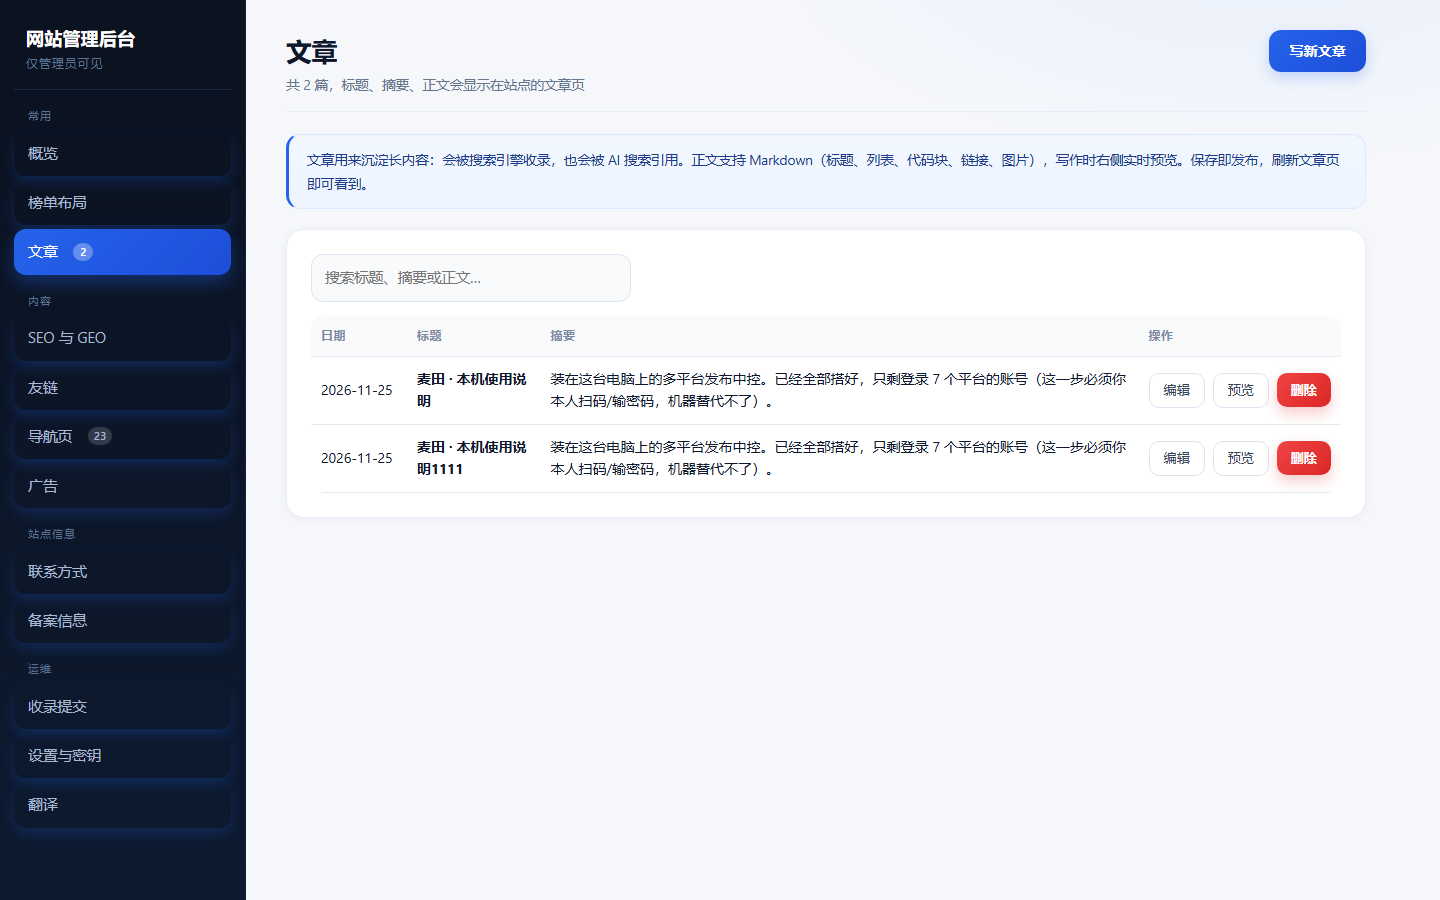
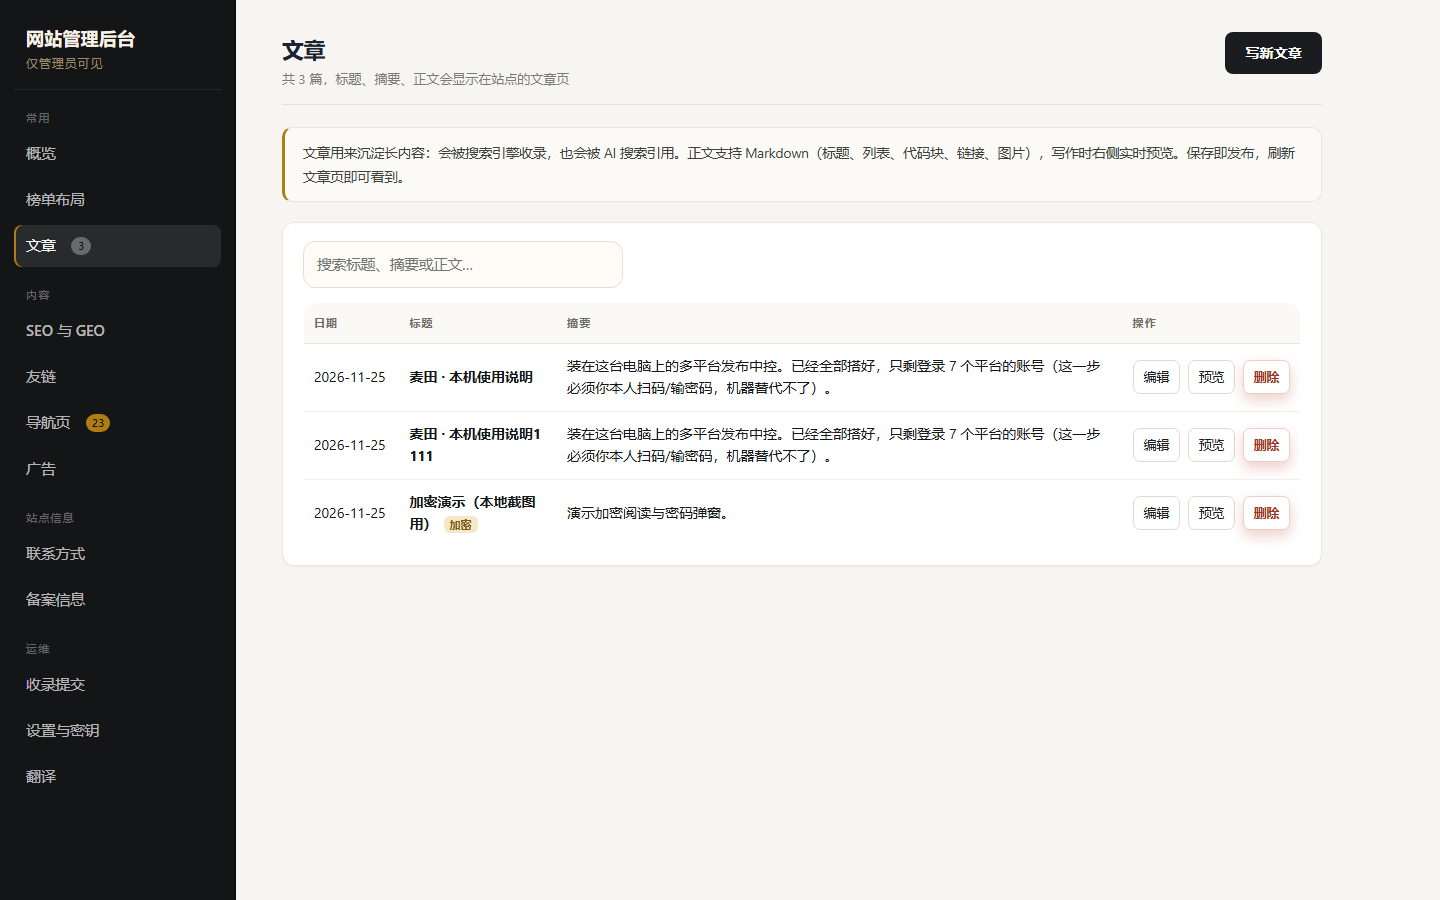
feat(articles): 密码改弹窗解锁 + 阅读态不再把侧栏顶到上面；后台换中性纸感配色

diff --git a/articles.html b/articles.html
@@ -120,6 +120,21 @@ li.md-task{list-style:none;margin-left:-18px}
 .lockbox input{width:100%;margin:10px 0;background:var(--bg);border:1px solid var(--border);border-radius:10px;padding:11px 13px;font:inherit;color:var(--text)}
 .lockbox input:focus{outline:0;border-color:var(--accent);box-shadow:0 0 0 3px rgba(176,125,16,.14)}
 .lockerr{color:var(--danger);font-size:12.5px;min-height:18px}
+.locknote{max-width:440px;margin:34px auto;text-align:center}
+.locknote p{color:var(--muted);font-size:13.5px;margin-bottom:14px}
+/* 阅读态：主列只留正文，侧栏仍在右边 */
+.blistwrap.is-reading>.btools,.blistwrap.is-reading>.chips,.blistwrap.is-reading>#cards{display:none}
+.blistwrap.is-reading>.reader{margin-top:0}
+/* 密码弹窗 */
+.pwd-modal{border:0;border-radius:16px;padding:0;width:min(420px,calc(100% - 28px));background:var(--card);color:var(--text);box-shadow:0 30px 80px rgba(0,0,0,.32)}
+.pwd-modal::backdrop{background:rgba(20,16,10,.45);backdrop-filter:blur(2px)}
+.pm-card{padding:22px 22px 18px}
+.pm-card h3{margin:0 0 6px;font-size:17px;letter-spacing:-.2px}
+.pm-sub{margin:0 0 14px;color:var(--muted);font-size:13px}
+.pm-card input{width:100%;background:var(--bg);border:1px solid var(--border);border-radius:10px;padding:11px 13px;font:inherit;color:var(--text)}
+.pm-card input:focus{outline:0;border-color:var(--accent);box-shadow:0 0 0 3px rgba(176,125,16,.14)}
+.pm-err{color:var(--danger);font-size:12.5px;min-height:18px;margin:6px 0 2px}
+.pm-actions{display:flex;justify-content:flex-end;gap:8px}
 /* 弹窗（广告） */
 .ad-modal{border:0;border-radius:16px;padding:0;width:min(680px,calc(100% - 28px));box-shadow:0 30px 80px rgba(0,0,0,.35);background:var(--card);color:var(--text)}
 .ad-modal::backdrop{background:rgba(12,16,24,.55)}
@@ -182,6 +197,15 @@ footer{margin-top:36px;padding-top:16px;border-top:1px solid var(--border);color
       <div class="cards" id="cards">
         <div class="empty">正在加载文章…</div>
       </div>
+
+  <article class="reader" id="reader" hidden>
+    <button class="rback" id="rback" type="button">← 返回文章列表</button>
+    <h1 id="rTitle"></h1>
+    <div class="rmeta" id="rMeta"></div>
+    <div class="abody" id="rBody"></div>
+    <div class="adslot" id="adAPAfter" hidden><div class="ad-inner"></div></div>
+    <div class="rmeta" id="rNav" style="border:0;margin:22px 0 0;padding-top:14px;border-top:1px solid var(--border)"></div>
+  </article>
     </section>
 
     <aside class="bside" id="side">
@@ -210,20 +234,24 @@ footer{margin-top:36px;padding-top:16px;border-top:1px solid var(--border);color
     </aside>
   </div>
 
-  <article class="reader" id="reader" hidden>
-    <button class="rback" id="rback" type="button">← 返回文章列表</button>
-    <h1 id="rTitle"></h1>
-    <div class="rmeta" id="rMeta"></div>
-    <div class="abody" id="rBody"></div>
-    <div class="adslot" id="adAPAfter" hidden><div class="ad-inner"></div></div>
-    <div class="rmeta" id="rNav" style="border:0;margin:22px 0 0;padding-top:14px;border-top:1px solid var(--border)"></div>
-  </article>
-
   <footer>
     <span>数据与文章由站长维护 · 数据来源 GitHub 公开 API</span>
     <span><a href="/">返回首页</a></span>
   </footer>
 </div>
+
+<dialog class="pwd-modal" id="pwDlg">
+  <form class="pm-card" method="dialog" onsubmit="return false">
+    <h3>这篇文章需要密码</h3>
+    <p class="pm-sub">输入站长设置的访问密码才能阅读正文。</p>
+    <input type="password" id="pwIn" autocomplete="current-password" placeholder="访问密码">
+    <div class="pm-err" id="pwErr"></div>
+    <div class="pm-actions">
+      <button class="btn" type="button" id="pwCancel">取消</button>
+      <button class="btn primary" type="button" id="pwGo">解锁</button>
+    </div>
+  </form>
+</dialog>
 
 <dialog class="ad-modal" id="adModal">
   <div class="am-head"><span>广告</span><button id="adModalX" type="button" aria-label="关闭">×</button></div>
@@ -414,9 +442,8 @@ footer{margin-top:36px;padding-top:16px;border-top:1px solid var(--border);color
     var a = findArt(id);
     if (!a) { closeReader(); return; }
     state.open = a;
-    $('listWrap').hidden = true;
+    $('listWrap').classList.add('is-reading');
     $('hero').hidden = true;
-    $('blog').hidden = true;
     $('adAPTop').hidden = true;
     $('reader').hidden = false;
     $('rTitle').textContent = a.title || '(无标题)';
@@ -432,12 +459,10 @@ footer{margin-top:36px;padding-top:16px;border-top:1px solid var(--border);color
       (prev ? '<a href="#' + encodeURIComponent(prev.id) + '" style="margin-left:auto">' + esc(prev.title || '') + ' →</a>' : '<span></span>');
     var body = $('rBody');
     if (a.locked) {
-      body.innerHTML = '<div class="lockbox"><p>这篇文章加了密码，输入后可以看正文。</p>' +
-        '<input type="password" id="lockPw" placeholder="输入密码" autocomplete="current-password">' +
-        '<div class="lockerr" id="lockErr"></div>' +
-        '<button class="btn primary" id="lockGo" type="button">解锁</button></div>';
-      $('lockGo').addEventListener('click', function () { unlock(a.id); });
-      $('lockPw').addEventListener('keydown', function (e) { if (e.key === 'Enter') unlock(a.id); });
+      body.innerHTML = '<div class="locknote"><p>这篇是加密文章，输入密码后阅读正文。</p>' +
+        '<button class="btn primary" id="lockOpen" type="button">输入密码解锁</button></div>';
+      $('lockOpen').addEventListener('click', function () { askPassword(a.id); });
+      askPassword(a.id);
     } else {
       body.innerHTML = md(a.body || '');
       mountAd($('adAPAfter'), adSlot['article-after']);
@@ -446,33 +471,51 @@ footer{margin-top:36px;padding-top:16px;border-top:1px solid var(--border);color
     document.title = (a.title || '文章') + ' · GitHub 热门项目排行榜';
   }
 
+  var lockId = null;
+
+  $('pwCancel').addEventListener('click', function () { try { $('pwDlg').close(); } catch (e) {} });
+  $('pwGo').addEventListener('click', function () { unlock(lockId); });
+  $('pwIn').addEventListener('keydown', function (e) {
+    if (e.key === 'Enter') { e.preventDefault(); unlock(lockId); }
+  });
+
+  function askPassword(id) {
+    lockId = id;
+    var dlg = $('pwDlg');
+    $('pwIn').value = '';
+    $('pwErr').textContent = '';
+    $('pwGo').disabled = false;
+    if (dlg && !dlg.open) dlg.showModal();
+    setTimeout(function () { try { $('pwIn').focus(); } catch (e) {} }, 60);
+  }
+
   function unlock(id) {
-    var pw = $('lockPw').value;
-    var err = $('lockErr');
+    var pw = $('pwIn').value;
+    var err = $('pwErr');
     err.textContent = '';
     if (!pw) { err.textContent = '先填密码'; return; }
-    $('lockGo').disabled = true;
+    $('pwGo').disabled = true;
     fetch('/api/article', {
       method: 'POST',
       headers: { 'content-type': 'application/json' },
       body: JSON.stringify({ id: id, password: pw }),
     }).then(function (r) { return r.json(); }).then(function (r) {
-      $('lockGo').disabled = false;
+      $('pwGo').disabled = false;
       if (r && r.ok && typeof r.body === 'string') {
         $('rBody').innerHTML = md(r.body);
         mountAd($('adAPAfter'), adSlot['article-after']);
+        try { $('pwDlg').close(); } catch (e) {}
       } else {
         err.textContent = (r && r.error) || '解锁失败';
       }
-    }).catch(function () { $('lockGo').disabled = false; err.textContent = '网络错误，稍后再试'; });
+    }).catch(function () { $('pwGo').disabled = false; err.textContent = '网络错误，稍后再试'; });
   }
 
   function closeReader() {
     state.open = null;
     $('reader').hidden = true;
-    $('listWrap').hidden = false;
+    $('listWrap').classList.remove('is-reading');
     $('hero').hidden = false;
-    $('blog').hidden = false;
     document.title = '文章 · GitHub 热门项目排行榜';
     if (location.hash) history.replaceState(null, '', location.pathname);
     renderAds(state.site);

diff --git a/worker.js b/worker.js
@@ -2683,6 +2683,52 @@ code.slot-id{background:#f6f1e4;color:#7a6a4c}
 .lockrow input[type="password"]{flex:1 1 240px;min-width:0}
 .lockrow .toggle.inline{margin:0;white-space:nowrap}
 .art-lock{font-size:11px;padding:1px 6px;border-radius:6px;background:#f6e7c8;color:#7a5a11;font-weight:600;margin-left:6px}
+
+/* UI v4 · 中性纸感：去掉渐变与光晕，只留细线、留白和一种强调色 */
+:root{--brand:#b07d10;--ok:#1f7a4d;--warn:#a8661a;--bad:#a2341f}
+body{background:#f6f5f2;background-image:none;color:#15171a;-webkit-font-smoothing:antialiased}
+.app{grid-template-columns:236px minmax(0,1fr)}
+.side{background:#141517;background-image:none;box-shadow:none;border-right:1px solid #0c0d0f}
+.navgroup{margin:20px 0 6px;padding:0 12px;font-size:10.5px;letter-spacing:.16em;color:rgba(255,255,255,.34)}
+.nav{background:transparent;background-image:none;border:0;border-radius:8px;box-shadow:none;color:rgba(255,255,255,.7);font-weight:500;padding:9px 12px}
+.nav:hover{background:rgba(255,255,255,.07);color:#fff}
+.nav[aria-current="true"]{background:rgba(255,255,255,.09);background-image:none;color:#fff;box-shadow:inset 2px 0 0 #b07d10}
+.nav-badge{background:#b07d10;color:#151310;box-shadow:none}
+.main{padding:32px 46px 76px}
+.bar{border-bottom:1px solid #e3e1dc;padding-bottom:14px;margin-bottom:22px}
+.bar h1{font-size:22px;font-weight:650;letter-spacing:-.4px}
+.bar .sub{color:#7c7a75;font-size:13px}
+.pane{max-width:1040px}
+.intro{background:#fbfaf7;background-image:none;border:1px solid #e8e5df;border-left:3px solid #b07d10;border-radius:10px;box-shadow:none;color:#413f3a;font-size:13.5px;line-height:1.75}
+.card{background:#fff;border:1px solid #e8e6e1;border-radius:12px;box-shadow:0 1px 2px rgba(20,21,23,.04);padding:18px 20px}
+.card-head b{font-size:14.5px;letter-spacing:-.1px}
+.card-head .slot-id,code.slot-id{background:#f4f2ed;color:#6b6862;border:1px solid #e8e5df}
+label{font-size:12.5px;font-weight:600;color:#5c5a55}
+input,textarea,select{background:#fff;background-image:none;border:1px solid #dcdad4;border-radius:8px;box-shadow:none;color:#15171a}
+input:hover,textarea:hover,select:hover{border-color:#c9c6be}
+input:focus,textarea:focus,select:focus{outline:0;border-color:#b07d10;box-shadow:0 0 0 3px rgba(176,125,16,.13)}
+button{background:#1b1c1f;background-image:none;color:#fff;border:0;border-radius:8px;box-shadow:none;font-weight:600}
+button:hover{background:#000}
+button.ghost{background:#fff;background-image:none;color:#1b1c1f;border:1px solid #dcdad4;box-shadow:none}
+button.ghost:hover{background:#f6f5f1;border-color:#c9c6be}
+button.danger{background:#fff;background-image:none;color:#a2341f;border:1px solid #eecdc6}
+button.danger:hover{background:#fdf3f1}
+button.small{padding:6px 10px;font-size:12.5px;border-radius:7px}
+button:disabled{opacity:.55}
+th{background:#faf9f6;color:#6f6d67;font-size:11px;font-weight:700;letter-spacing:.1em;text-transform:uppercase;border-bottom:1px solid #e8e6e1}
+td{border-bottom:1px solid #f1efea}
+tr:hover td{background:#fcfbf8}
+.stats .stat,.stat{background:#fff;background-image:none;border:1px solid #e8e6e1;border-radius:12px;box-shadow:none}
+.stat b{font-size:20px;letter-spacing:-.4px}
+.kv{border-bottom:1px dashed #e8e6e1}
+.choice{background:#fff;background-image:none;border:1px solid #e2dfd9;border-radius:10px;box-shadow:none}
+.choice:has(input:checked){background:#fbf7ec;background-image:none;border-color:#c9a94e;box-shadow:0 0 0 3px rgba(176,125,16,.12)}
+.status-item{background:#fff;background-image:none;border:1px solid #e8e6e1}
+.lockrow{background:#fbfaf7;background-image:none;border:1px dashed #e0ddd6;border-radius:10px}
+.toast{background:#1b1c1f;background-image:none;box-shadow:0 12px 32px rgba(0,0,0,.22)}
+#errBar{background:#fdf2f0;background-image:none;color:#a2311f;border-bottom:1px solid #f3cfc8}
+.raw pre{background:#fbfaf7;background-image:none;border:1px solid #ecebe5}
+::-webkit-scrollbar-thumb{background:#d6d3cc;border:2px solid transparent;background-clip:content-box}
 </style>
 </head>
 <body>

diff --git a/sw.js b/sw.js
@@ -1,5 +1,5 @@
 /* Service Worker：缓存页面外壳（HTML/JS/图标），让离线也能打开；GitHub API 不缓存，由页面自己的 localStorage 管理 */
-const CACHE = 'ghrank-shell-v46';
+const CACHE = 'ghrank-shell-v47';
 const SHELL = ['./', 'index.html', 'js/bundle.js', 'js/md.js', 'manifest.json', 'icon.svg'];
 // 只预缓存 meta（约 2KB）。榜单数据按 range 分文件、由页面按需加载，不再在安装时白下几百 KB
 const DATA = 'data/repos-meta.js';

diff --git a/docs/操作手册.md b/docs/操作手册.md
@@ -338,3 +338,10 @@ scripts/preview-admin.mjs  生成后台各面板的预览页（自动用 dev 密
 - 仓库里的 `data/articles.json` 只有密文（AES-GCM + PBKDF2 10 万次），正文是 `""`，公开接口不返回 `lock`；
 - 前台 `/articles` 卡片带 🔒，点开后要求输密码，走 `POST /api/article`，同一个 IP 每天最多试 30 次；
 - 编辑时密码框**留空 = 沿用原密码**；取消勾选会提示「正文将以明文存进仓库」。
+
+
+## 补充：文章密码改成弹窗 + 阅读页排版修正（2026-11-25）
+
+- 加密文章在阅读页只显示一句提示 + 「输入密码解锁」按钮，点开后是**弹窗**输入密码（不是页内输入框）；密码错了在弹窗里提示，对了弹窗关闭、正文原地渲染。
+- 阅读态不再把侧栏顶上去：正文留在主列，右侧栏仍在右边；窄屏时侧栏排在正文**下面**，不再是上面。
+- 后台换成中性纸感配色（近黑侧栏 + 细线卡片 + 一种强调色），去掉渐变、光晕和彩色投影。
